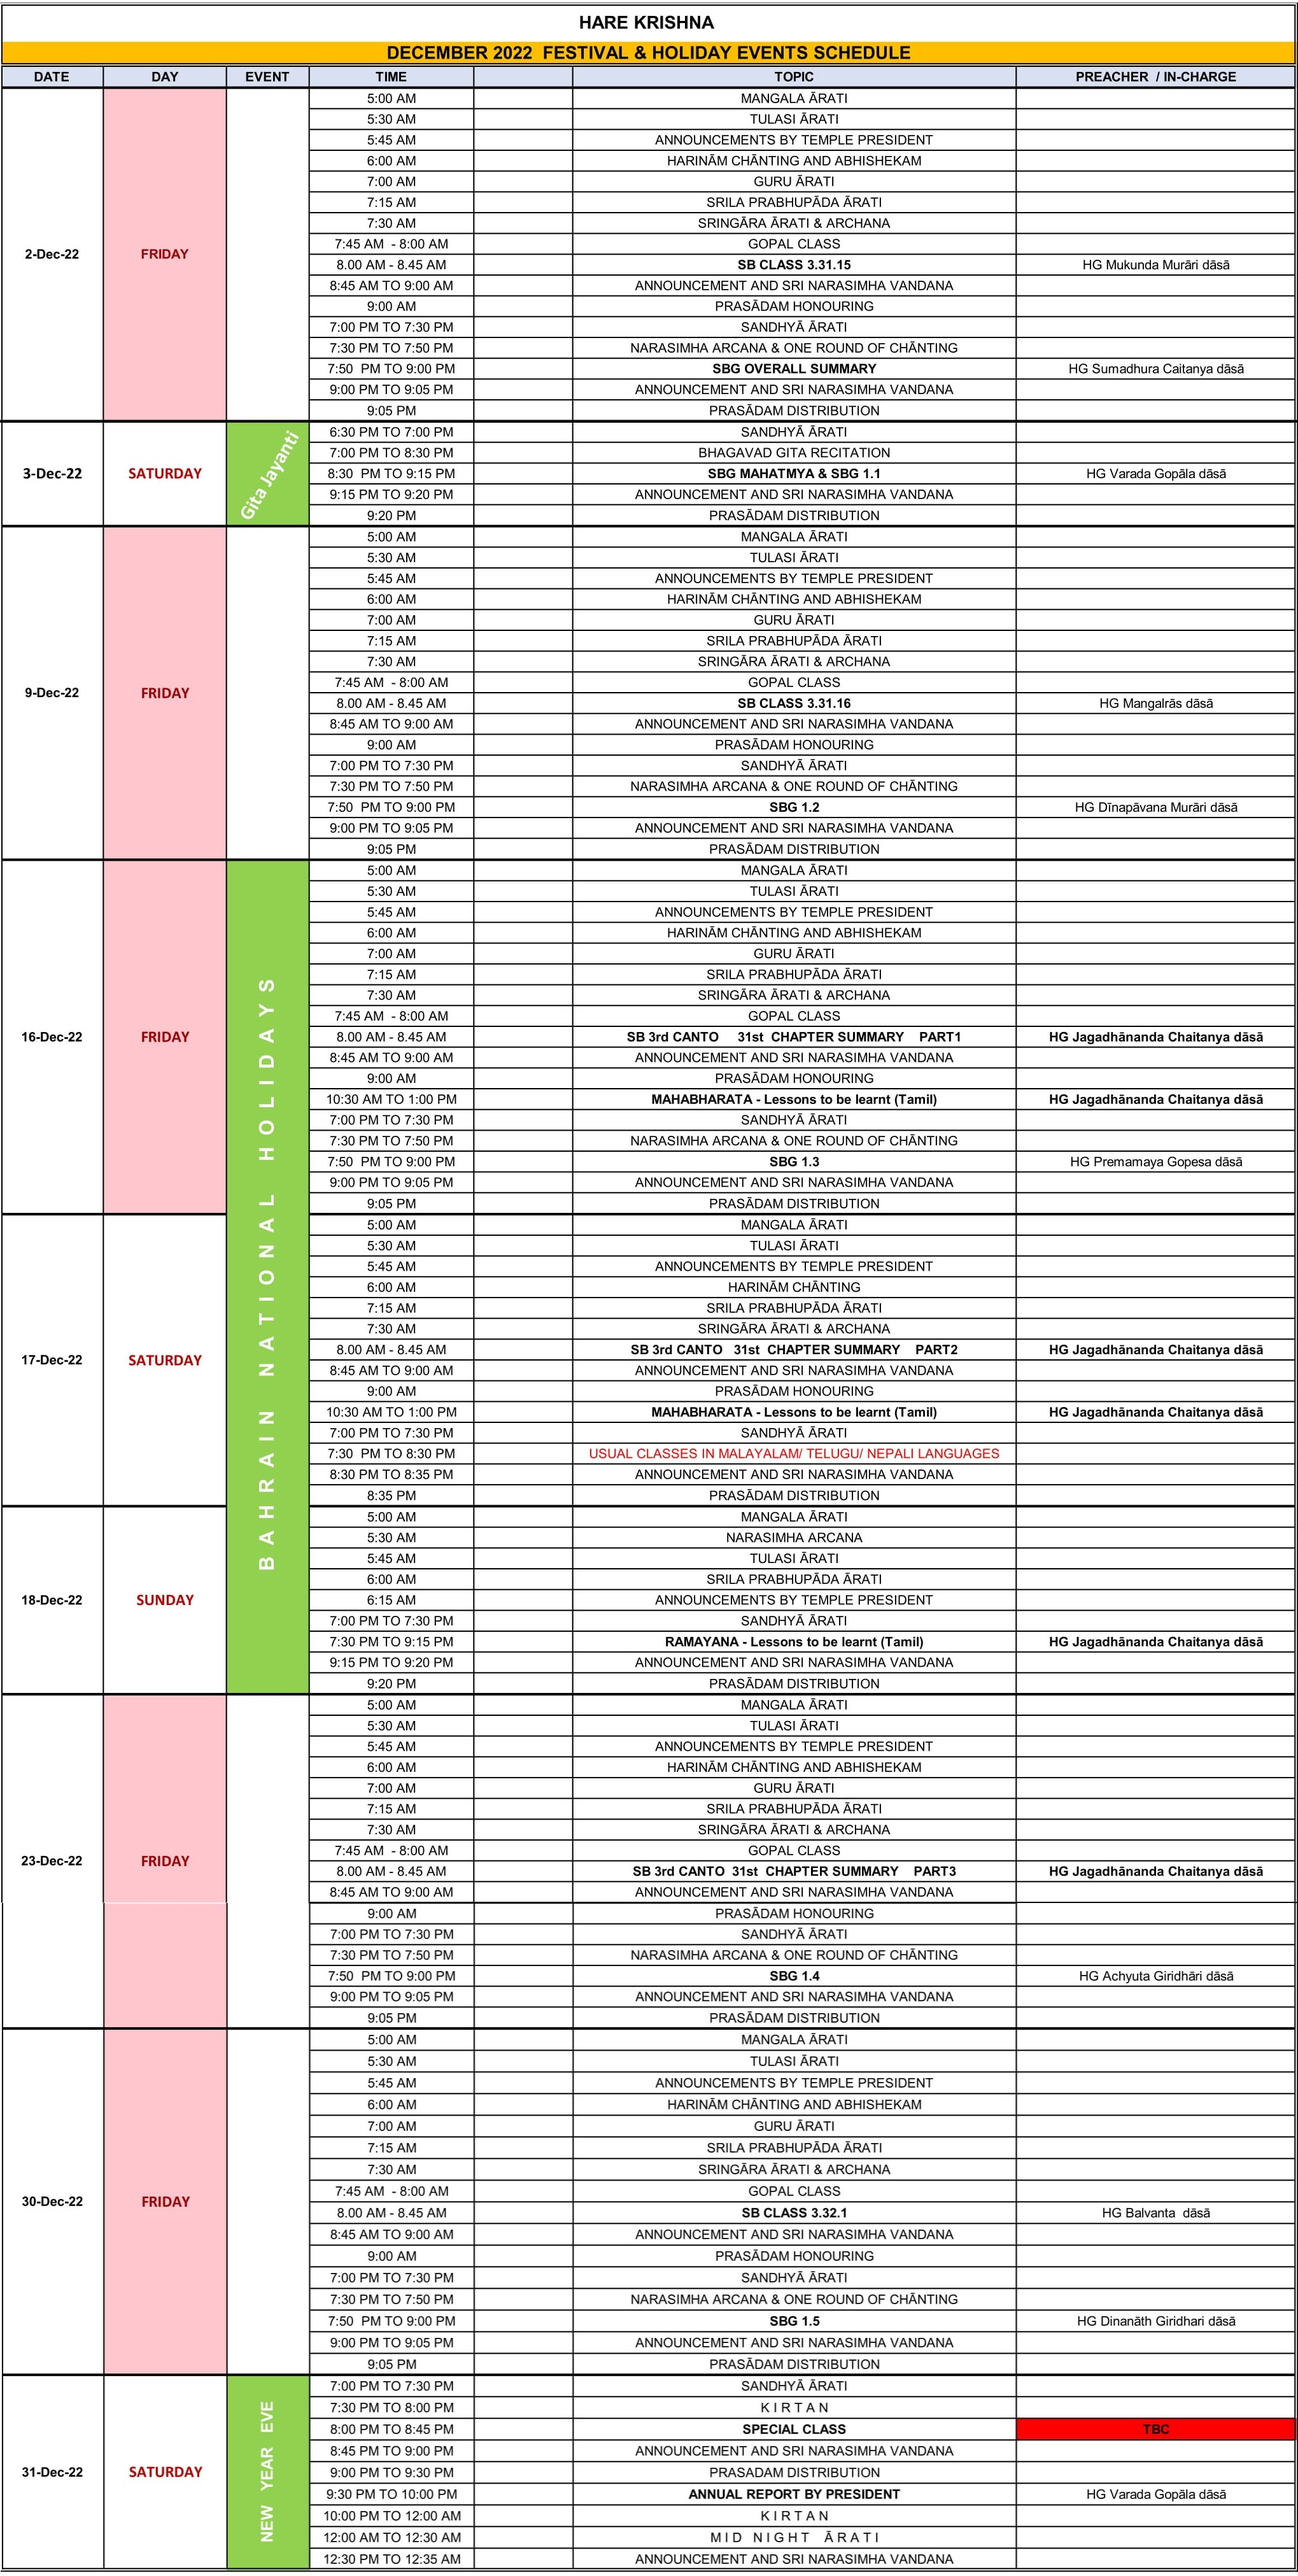
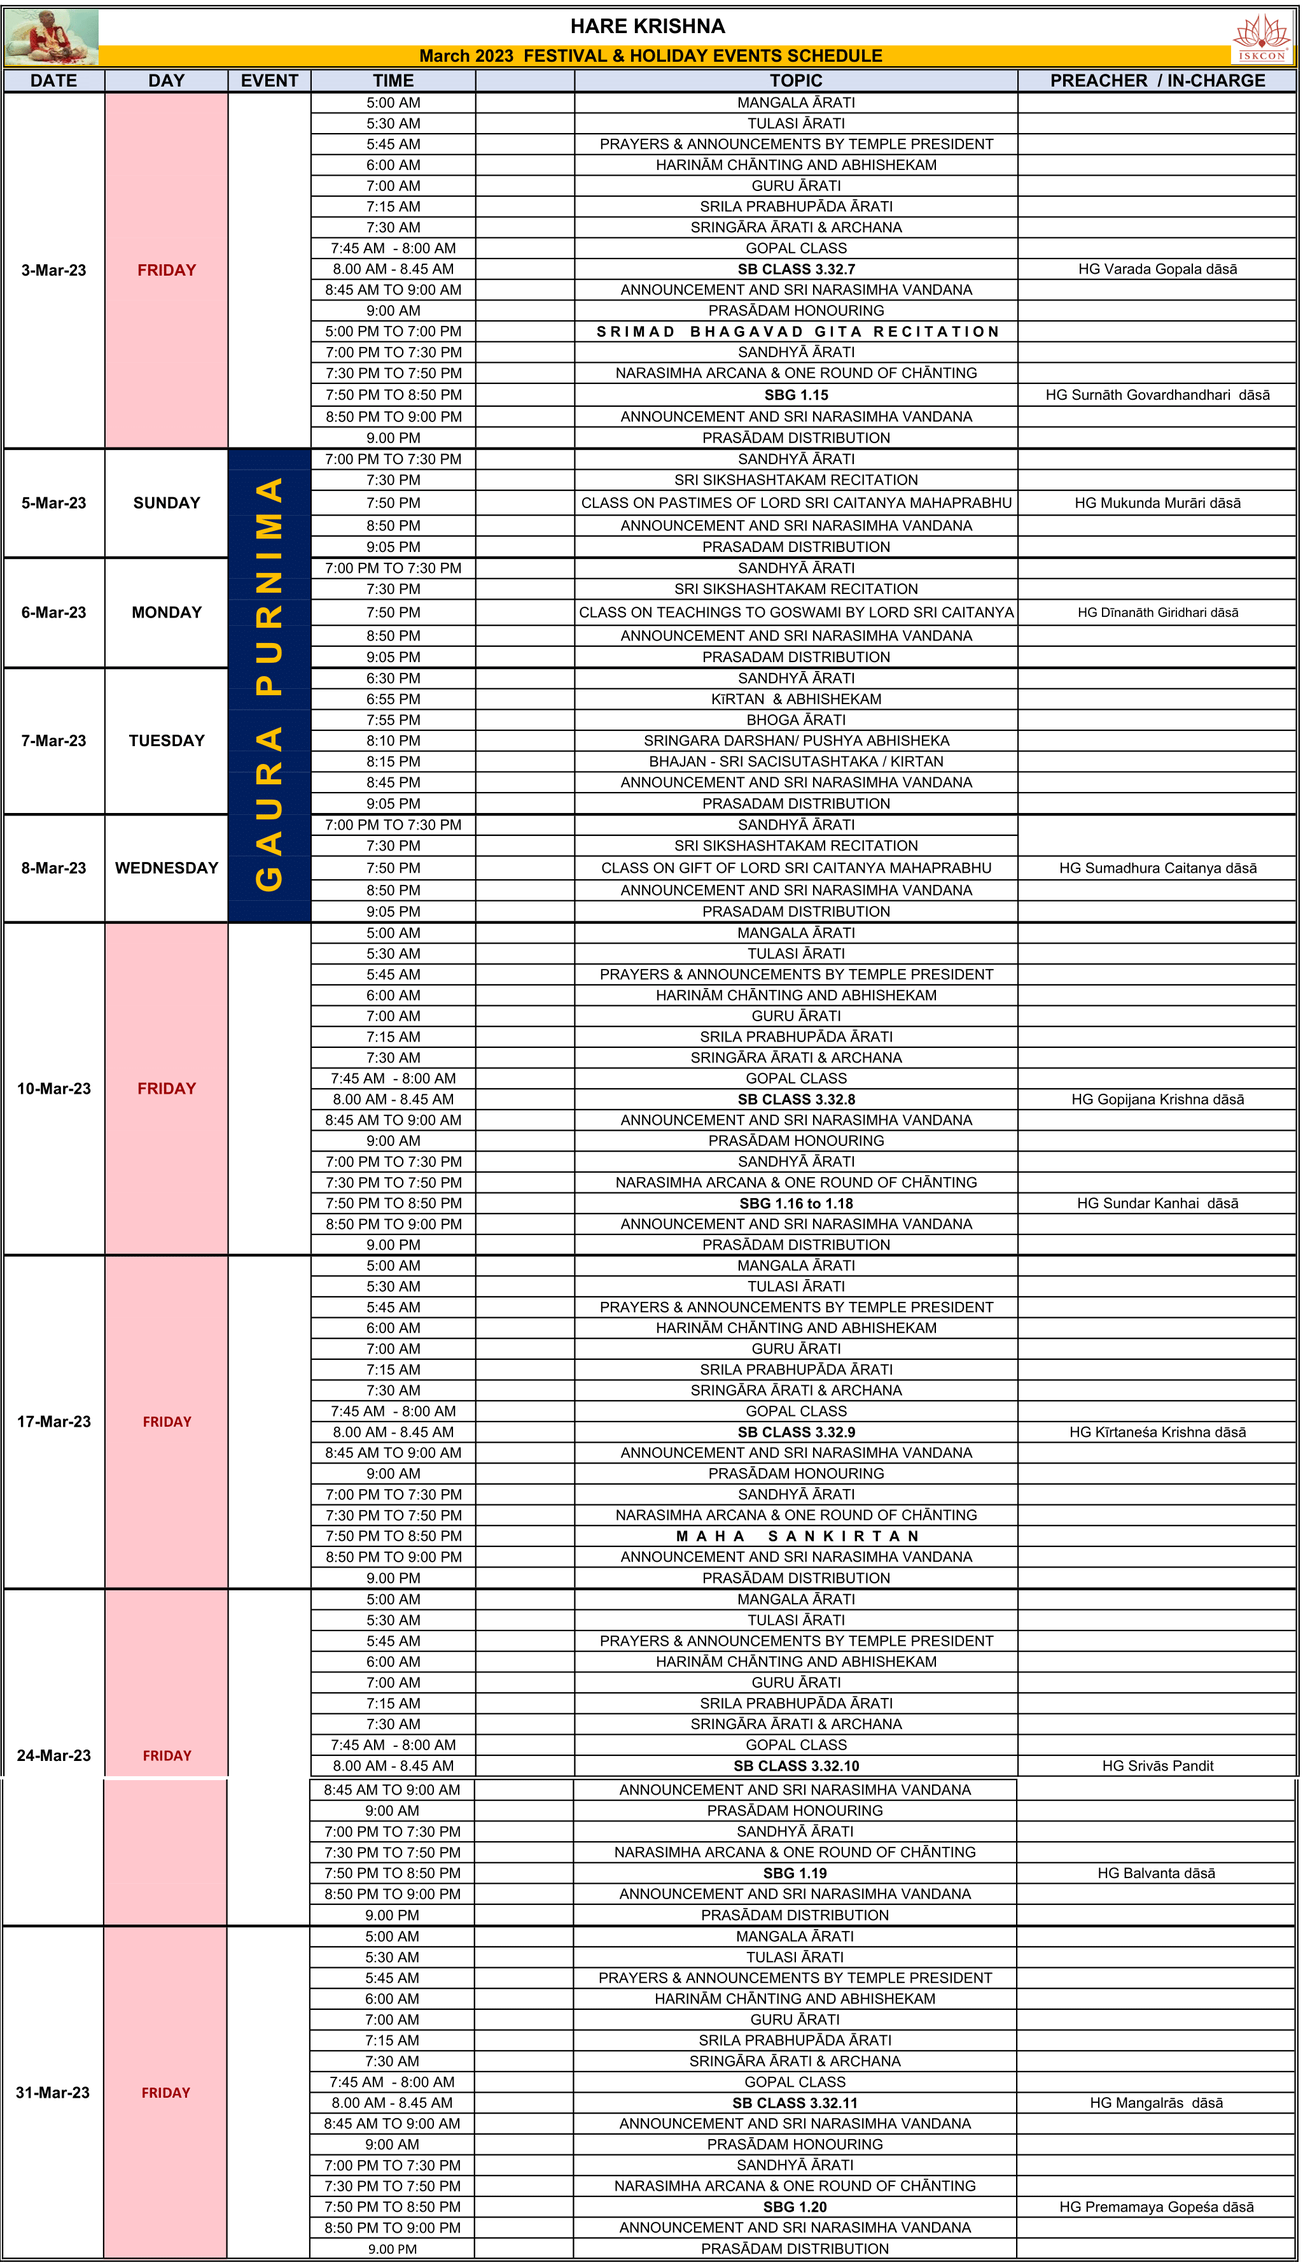
march update

diff --git a/schedule.html b/schedule.html
@@ -96,7 +96,7 @@
 
               <a href="youth.html" class="dropdown-item">For Youth</a>
               <a href="schedule.html" class="dropdown-item"
-                >Preacher Schedule(Dec)
+                >Preacher Schedule(March 2023)
               </a>
               <a href="https://vedabase.io/en/library/" class="dropdown-item"
                 >Resources</a
